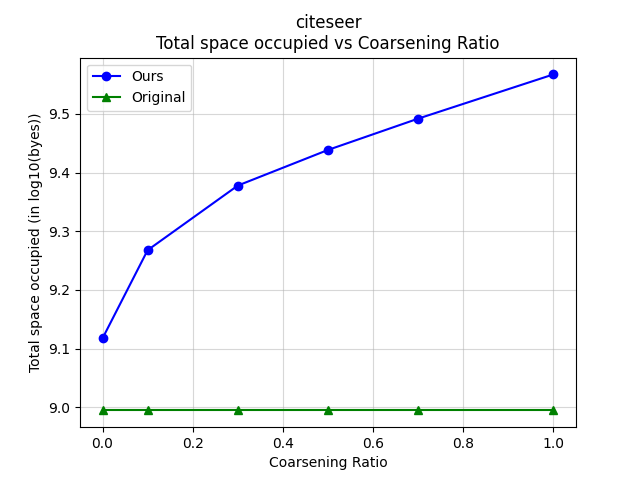
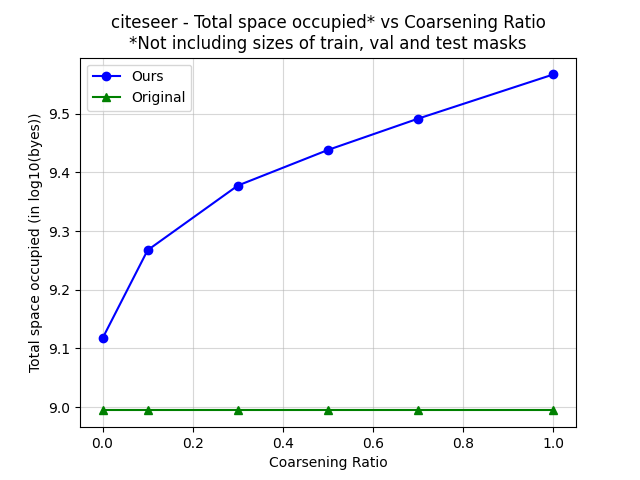
updated plots

diff --git a/plot.py b/plot.py
@@ -16,13 +16,10 @@ df = pd.read_csv("results.csv")
 
 for dataset in df["dataset"].unique():
     plt.figure()
-    plt.plot(df[df["dataset"] == dataset]["coarsening_ratio"], np.log10(df[df["dataset"] == dataset]["total"]), marker = "o", color = 'b')
-    plt.plot(df[df["dataset"] == dataset]["coarsening_ratio"], np.log10(df[(df["dataset"] == dataset) & (df["baseline"] == True)]["total"].iloc[0] * np.ones(7)), marker = "^", color = 'g')
+    plt.plot(df[df["dataset"] == dataset]["coarsening_ratio"], np.log10(df[df["dataset"] == dataset]['x'] + df[df["dataset"] == dataset]['y'] + df[df["dataset"] == dataset]['edge_index']), marker = "o", color = 'b')
+    plt.plot(df[df["dataset"] == dataset]["coarsening_ratio"], np.log10((df[(df["dataset"] == dataset) & (df["baseline"]==True)]['x'] + df[(df["dataset"] == dataset) & (df["baseline"]==True)]['y'] + df[(df["dataset"] == dataset) & (df["baseline"]==True)]['edge_index']).iloc[0] * np.ones(7)), marker = "^", color = 'g')
     plt.legend(["Ours", "Original"])
-    if dataset in ["dblp", "Physics"]:
-        plt.title(f"{dataset} - Total space occupied* vs Coarsening Ratio\n*Not including sizes of train, val and test masks" )
-    else:
-        plt.title(f"{dataset}\nTotal space occupied vs Coarsening Ratio" )
+    plt.title(f"{dataset} - Total space occupied* vs Coarsening Ratio\n*Not including sizes of train, val and test masks" )
     plt.xlabel("Coarsening Ratio")
     plt.ylabel("Total space occupied (in log10(byes))")
     plt.grid(alpha = 0.5)
